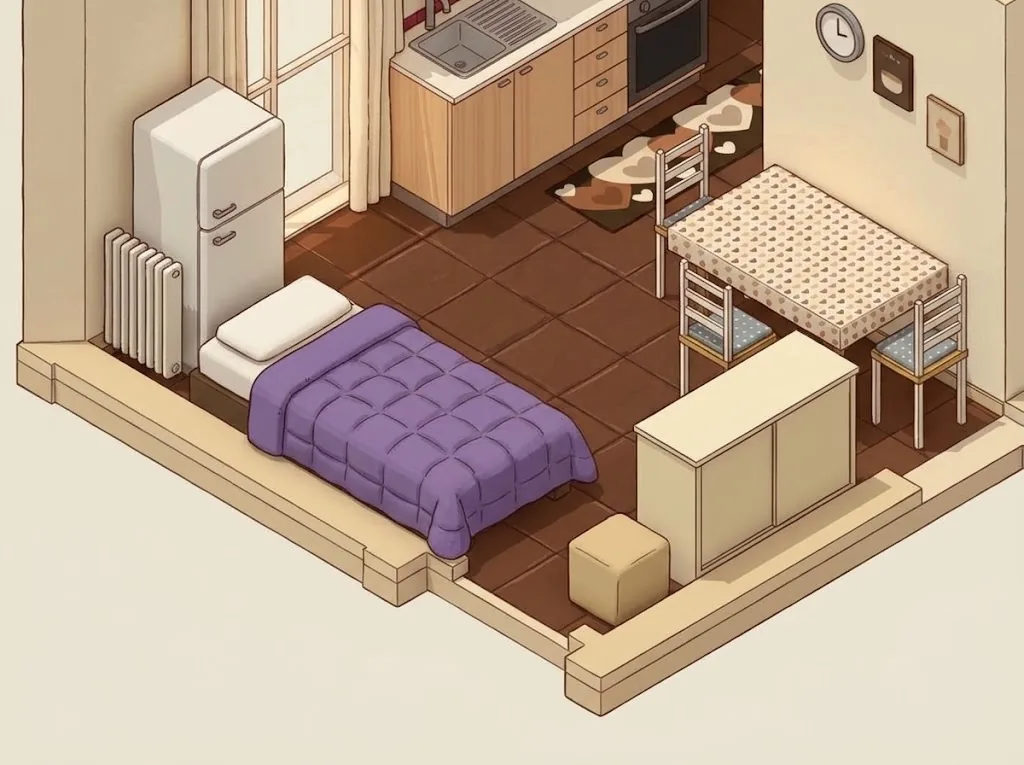
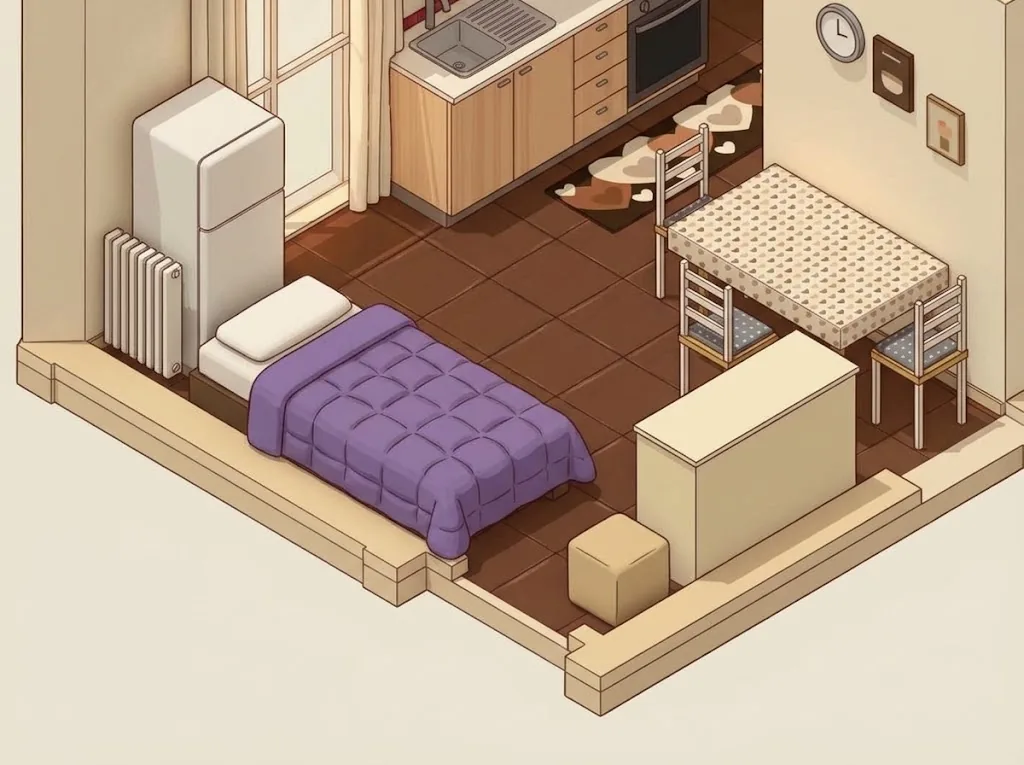
1.52.1: Salvatore dal balcone (decimo disegno) e la zona del tavolo rifatta (credenza vista da dietro)
Claude-Session: https://claude.ai/code/session_01H8bxSaX2AXN9M55pyspg7j

diff --git a/app.js b/app.js
@@ -17,7 +17,7 @@ import * as VOCE from "./voce.js";
 import * as GESTI from "./gesti.js";
 import * as BOCCA from "./bocca.js";
 
-export const VERSIONE = "1.52.0";
+export const VERSIONE = "1.52.1";
 
 // Icone (SVG semplici, tratto 2px). Si usano con ICONA("nome").
 const ICONE_SVG = {
@@ -3599,7 +3599,7 @@ for (const [k, v] of Object.entries(MAPPE_ZONE)) MAPPE[k] = v;
 //  I SEGNI DI MICHELE: tocca il disegno nel punto giusto e scrive due parole; valgono per quella pulizia (p.segniMano) o
 //  «ogni volta» in quella camera (impostazioni/segni). La signora li vede sul disegno (tondi blu col ✎) e li sente da Sofia.
 // ============================================================================
-const DISEGNI_STANZE = { salvatore: [{"id":"s1","file":"disegno-salvatore-1.webp","titolo":"Tutta la camera (dal bagno)","zona":false,"sagoma":[[371,190],[281,244],[149,271],[28,201],[29,110],[209,3],[371,99]],"posti":{"camera":[139.1,199.2,0.99],"soffitto":[145.4,55.9,0.84],"soffitto.angoli":[209.9,18.1,0.71],"pareti":[185.3,161.9,1.11],"pareti.macchie":[280.7,104.6,0.95],"pavimento":[139.1,186.4,1.0],"pavimento.angoli":[274.6,140.1,0.96],"battiscopa":[281.0,140.9,0.95],"zerbino":[170.1,152.9,1.08],"interruttori":[337.7,154.1,0.81],"tv":[150.3,60.8,0.85],"tv.retro":[150.3,56.3,0.84],"clima":[122.7,76.3,0.9],"clima.filtri":[122.7,73.2,0.89],"clima.griglia":[122.7,79.9,0.92],"frigo":[69.9,167.2,0.82],"frigo.guarnizione":[75.4,159.2,0.84],"frigo.retro":[67.1,149.7,0.82],"armadio":[235.9,90.6,0.95],"armadio.ante":[231.7,86.6,0.94],"armadio.dentro":[223.4,91.4,0.95],"armadio.sopra":[235.9,56.1,0.84],"cassetti":[181.3,217.1,0.93],"scrivania":[195.2,173.3,1.07],"tavolo":[195.2,173.3,1.07],"sedia":[177.5,191.7,1.01],"bollitore":[141.8,120.9,1.0],"letto":[289.8,175.1,0.93],"letto.testiera":[317.2,176.5,0.86],"letto.piedini":[241.4,185.4,1.03],"letto.sotto":[269.6,200.4,0.98],"letto.spostato":[265.8,166.0,0.99],"materasso":[296.2,180.3,0.91],"cuscini":[309.5,184.8,0.88],"coperta":[281.0,169.9,0.95],"comodino":[282.8,208.5,0.94],"abatjour":[342.3,163.0,0.79],"telecomandi":[282.8,204.7,0.94],"quadro":[212.4,136.1,1.1],"finestra":[177.8,69.8,0.88],"finestra.vetro":[177.8,66.6,0.87],"finestra.vetroEsterno":[177.8,63.4,0.86],"finestra.maniglia":[178.4,77.5,0.91],"finestra.davanzale":[177.8,87.4,0.94],"tapparella":[177.8,49.0,0.81],"zanzariera":[177.8,60.2,0.85],"tende":[166.2,80.7,0.92],"tende.bastone":[179.5,39.5,0.78],"termosifone":[179.2,105.7,1.0],"portafinestra":[86.5,136.9,0.87],"pensili":[135.5,91.7,0.96],"pensili.dentro":[135.5,93.3,0.96],"pensili.sopra":[135.5,81.5,0.92],"fornelli":[156.2,113.2,1.03],"forno":[161.2,128.9,1.05],"lavello":[126.3,130.2,0.97],"lavello.sotto":[130.8,148.1,0.98],"mestoli":[127.2,112.4,0.97],"piano":[139.1,123.1,1.0],"cucina":[139.1,132.1,1.0],"cucina.pavimento":[157.1,161.6,1.04],"cucina.frigo":[69.9,167.2,0.82],"sedie":[177.5,191.7,1.01],"bagno.soffitto":[22.9,246.1,0.71],"bagno.pareti":[66.3,230.6,0.82],"piastrelle":[58.0,261.0,0.78],"bagno.pavimento":[47.8,283.8,0.7]}},{"id":"cucina","file":"disegno-salvatore-cucina.webp","titolo":"La cucina","zona":true,"sagoma":[[399,12],[399,299],[14,299],[17,173],[311,0],[379,0]],"posti":{"soffitto":[227.5,76.0,1.81],"pareti":[301.0,271.5,1.49],"pareti.macchie":[222.4,173.2,2.15],"zerbino":[272.9,254.8,1.6],"tv":[236.5,85.0,1.87],"tv.retro":[236.5,76.7,1.81],"clima":[185.7,113.7,2.06],"clima.filtri":[185.7,107.8,2.02],"clima.griglia":[185.7,120.2,2.1],"frigo":[88.3,281.3,1.42],"frigo.guarnizione":[98.5,266.5,1.52],"frigo.retro":[83.2,248.9,1.64],"armadio.ante":[386.7,132.6,1.37],"armadio.dentro":[371.4,141.4,1.44],"cassetti":[223.5,218.0,1.85],"bollitore":[220.9,195.9,1.99],"quadro":[351.0,223.8,1.55],"finestra":[287.2,101.6,1.86],"finestra.vetro":[287.2,95.7,1.86],"finestra.vetroEsterno":[287.2,89.8,1.86],"finestra.maniglia":[288.2,115.8,1.86],"finestra.davanzale":[287.2,134.0,1.86],"tapparella":[287.2,63.3,1.72],"zanzariera":[287.2,84.0,1.86],"tende":[265.8,121.7,1.97],"tende.bastone":[290.3,45.7,1.6],"termosifone":[289.8,167.9,1.85],"portafinestra":[118.9,225.3,1.8],"pensili":[209.2,142.0,2.25],"pensili.dentro":[209.2,144.9,2.25],"pensili.sopra":[209.2,123.1,2.12],"fornelli":[247.4,181.7,2.06],"forno":[256.6,210.6,1.9],"lavello":[192.3,212.9,1.88],"lavello.sotto":[200.5,245.9,1.66],"mestoli":[193.9,180.3,2.1],"piano":[215.8,200.0,1.97],"cucina":[215.8,216.5,1.86],"cucina.pavimento":[249.0,271.0,1.49],"cucina.frigo":[88.3,281.3,1.42]}},{"id":"tavolo","file":"disegno-salvatore-tavolo.webp","titolo":"Il letto piccolo e il tavolo","zona":true,"sagoma":[[399,299],[0,299],[0,0],[396,0]],"posti":{"camera":[212.6,146.0,2.24],"soffitto":[309.6,52.2,1.65],"soffitto.angoli":[233.4,95.1,1.93],"pareti":[299.3,76.2,1.8],"pareti.macchie":[299.3,142.1,1.8],"pavimento":[212.6,122.1,2.11],"battiscopa":[340.3,187.4,1.6],"zerbino":[270.7,59.2,1.69],"frigo":[82.9,86.1,1.71],"frigo.guarnizione":[93.2,71.1,1.77],"frigo.retro":[77.7,53.1,1.65],"cassetti":[291.7,179.7,1.84],"scrivania":[317.9,97.5,1.71],"tavolo":[317.9,97.5,1.71],"sedia":[284.7,131.9,1.88],"quadro":[350.1,27.7,1.48],"tende":[84.4,27.1,1.48],"termosifone":[57.4,118.8,1.59],"portafinestra":[114.0,29.2,1.49],"lavello":[188.7,16.6,1.41],"lavello.sotto":[197.0,50.2,1.63],"cucina":[212.6,20.2,1.43],"cucina.pavimento":[246.3,75.6,1.8],"cucina.frigo":[82.9,86.1,1.71],"sedie":[284.7,131.9,1.88],"bagno.soffitto":[161.7,137.6,2.11],"bagno.pareti":[76.1,205.0,1.68],"piastrelle":[60.5,262.0,1.55]}},{"id":"armadio","file":"disegno-salvatore-armadio.webp","titolo":"L'armadio e il letto grande","zona":true,"sagoma":[[399,299],[0,299],[0,0],[399,0]],"posti":{"soffitto":[74.4,166.1,1.67],"soffitto.angoli":[352.8,85.7,1.54],"pareti":[65.0,187.8,1.62],"pareti.macchie":[227.2,90.4,1.9],"pavimento":[160.4,194.1,2.01],"pavimento.angoli":[216.9,150.6,2.22],"battiscopa":[227.7,152.0,2.16],"zerbino":[39.1,172.4,1.5],"interruttori":[324.1,174.5,1.68],"armadio":[151.0,66.5,1.74],"armadio.ante":[144.0,59.7,1.7],"armadio.dentro":[129.9,67.8,1.75],"cassetti":[58.1,281.6,1.42],"scrivania":[81.9,207.1,1.71],"tavolo":[81.9,207.1,1.71],"sedia":[51.8,238.3,1.56],"letto":[242.7,210.1,1.9],"letto.testiera":[289.3,212.5,1.85],"letto.piedini":[160.4,227.7,1.78],"letto.sotto":[208.4,253.3,1.61],"letto.spostato":[201.8,194.6,2.0],"materasso":[253.5,219.1,1.84],"cuscini":[276.1,226.7,1.79],"coperta":[227.7,201.4,1.96],"comodino":[230.7,267.0,1.52],"abatjour":[331.9,189.6,1.64],"telecomandi":[230.7,260.5,1.56],"quadro":[111.0,143.8,1.86],"finestra":[52.3,31.2,1.51],"finestra.vetro":[52.3,25.7,1.47],"finestra.vetroEsterno":[52.3,20.3,1.44],"finestra.maniglia":[53.2,44.2,1.57],"finestra.davanzale":[52.3,61.0,1.56],"tende":[32.5,49.6,1.46],"termosifone":[54.6,92.3,1.57],"fornelli":[15.6,105.0,1.38],"forno":[24.0,131.6,1.42],"cucina.pavimento":[17.0,187.3,1.38],"sedie":[51.8,238.3,1.56]}},{"id":"ingresso","file":"disegno-salvatore-ingresso.webp","titolo":"L'ingresso","zona":true,"sagoma":[[399,270],[366,299],[27,298],[0,282],[0,66],[151,0],[264,0],[313,14],[399,65]],"posti":{"soffitto":[230.1,255.5,1.6],"pareti":[140.3,59.7,1.7],"pareti.macchie":[367.2,178.5,1.46],"pavimento":[182.1,256.6,1.59],"porta":[55.9,196.3,1.58],"porta.anta":[63.7,173.8,1.62],"porta.maniglia":[74.3,189.3,1.67],"porta.numero":[55.9,153.1,1.58],"interruttori":[94.2,174.1,1.77],"frigo.guarnizione":[387.8,253.0,1.36],"cassetti":[149.4,201.7,1.96],"scrivania":[117.9,261.6,1.56],"tavolo":[117.9,261.6,1.56],"quadro":[353.5,135.3,1.53]}},{"id":"letto","file":"disegno-salvatore-letto.webp","titolo":"Il letto grande","zona":true,"sagoma":[[399,299],[71,299],[15,266],[16,74],[143,0],[399,0]],"posti":{"soffitto":[234.1,187.6,2.05],"soffitto.angoli":[52.8,81.4,1.56],"pareti":[227.6,259.4,1.57],"battiscopa":[273.4,198.2,1.93],"porta":[364.7,131.1,1.48],"porta.anta":[372.8,107.5,1.44],"porta.maniglia":[384.0,123.7,1.38],"porta.numero":[364.7,85.7,1.48],"armadio.sopra":[333.6,256.3,1.59],"letto":[206.0,228.8,1.77],"letto.testiera":[141.2,157.3,2.01],"letto.sotto":[253.7,229.1,1.77],"letto.spostato":[262.9,273.0,1.48],"materasso":[190.9,223.9,1.81],"cuscini":[159.5,198.2,1.98],"coperta":[226.9,240.9,1.69],"comodino":[222.6,164.7,2.19],"abatjour":[81.9,219.5,1.71],"telecomandi":[222.6,155.7,2.19],"quadro":[139.2,88.2,1.89]}},{"id":"balcone","file":"disegno-salvatore-balcone.webp","titolo":"Il balcone","zona":true,"sagoma":[[399,299],[0,299],[0,0],[399,0]],"posti":{"camera":[73.2,107.8,1.67],"soffitto":[61.8,66.8,1.61],"pareti":[66.8,138.4,1.63],"pareti.macchie":[66.8,155.6,1.63],"pavimento":[73.2,107.8,1.67],"frigo":[197.2,73.4,1.79],"frigo.guarnizione":[187.3,64.8,1.73],"frigo.retro":[202.1,36.2,1.54],"cassetti":[65.8,169.3,1.63],"sedia":[13.2,109.8,1.37],"bollitore":[68.3,145.0,1.64],"fornelli":[42.5,161.0,1.51],"forno":[33.6,182.2,1.47],"lavello":[96.0,130.7,1.78],"piano":[73.2,143.3,1.67],"cucina":[73.2,159.3,1.67],"cucina.frigo":[197.2,73.4,1.79],"sedie":[13.2,109.8,1.37],"balcone":[160.0,215.1,1.87],"ringhiera":[173.4,211.4,1.89],"muretto":[173.4,228.6,1.78],"piante":[120.3,249.5,1.64],"unita":[113.4,147.0,1.87],"balcone.mobili":[217.0,156.4,2.21],"balcone.muro":[54.4,231.4,1.57]}},{"id":"bagno1","file":"disegno-salvatore-bagno-1.webp","titolo":"Il bagno e l'antibagno","zona":false,"sagoma":[[305,283],[288,286],[48,196],[48,70],[102,10],[338,105],[338,229]],"posti":{"soffitto":[370.1,183.1,0.72],"soffitto.angoli":[297.7,155.3,0.91],"pareti":[360.3,192.5,0.75],"pareti.macchie":[360.3,240.4,0.75],"pavimento":[387.1,270.2,0.68],"bagno.soffitto":[70.9,72.0,0.83],"bagno.pareti":[148.3,113.8,1.02],"piastrelle":[133.5,143.2,0.98],"bagno.pavimento":[190.7,188.9,1.02],"bagno.porta":[253.0,176.8,1.02],"bagno.finestra":[87.1,95.4,0.87],"doccia":[181.0,167.0,1.09],"doccia.box":[191.0,142.8,1.13],"doccia.guide":[208.2,162.3,1.11],"doccia.piatto":[181.0,208.4,0.96],"doccia.piletta":[181.0,208.9,0.95],"silicone":[173.7,190.5,1.02],"scaldasalviette":[90.1,146.7,0.88],"asciugamani":[214.0,139.1,1.11],"wc":[113.1,171.7,0.93],"wc.tavoletta":[115.6,168.9,0.94],"wc.cassetta":[107.7,165.5,0.92],"wc.base":[117.6,179.7,0.94],"wc.dietro":[107.7,183.0,0.92],"portarotolo":[75.8,149.6,0.84],"bidet":[139.8,188.6,1.0],"lavabo":[213.0,197.2,0.99],"lavabo.piletta":[213.7,194.2,1.0],"lavabo.sotto":[212.3,215.4,0.93],"rubinetto":[208.9,196.1,1.0],"bidoncino":[111.3,147.8,0.93],"bagno.cestino":[111.3,147.8,0.93],"tappetino":[196.9,190.7,1.01]}},{"id":"bagno2","file":"disegno-salvatore-bagno-2.webp","titolo":"Il bagno visto dall'altra parte","zona":false,"sagoma":[[348,238],[286,289],[66,194],[66,60],[114,10],[348,105]],"posti":{"pareti":[53.5,16.9,0.71],"pareti.macchie":[53.5,67.7,0.78],"pavimento":[23.9,141.9,0.71],"battiscopa":[17.7,105.5,0.69],"bagno":[229.7,220.3,0.92],"bagno.soffitto":[325.4,113.0,0.84],"bagno.pareti":[252.7,97.5,0.97],"piastrelle":[266.6,140.0,0.98],"bagno.pavimento":[207.3,224.0,0.9],"bagno.porta":[149.9,146.6,1.02],"doccia":[219.8,158.9,1.1],"doccia.box":[208.5,154.5,1.13],"doccia.guide":[192.3,161.8,1.11],"doccia.piatto":[219.8,202.8,0.97],"doccia.piletta":[219.8,203.3,0.97],"silicone":[224.7,218.3,0.92],"scaldasalviette":[303.9,228.3,0.89],"wc":[284.3,207.4,0.94],"wc.tavoletta":[281.4,209.8,0.95],"wc.cassetta":[290.5,189.4,0.92],"wc.base":[279.1,225.5,0.9],"wc.dietro":[290.5,207.9,0.92],"bidet":[259.4,201.3,0.98],"lavabo":[190.8,151.8,1.13],"lavabo.piletta":[190.0,150.1,1.12],"lavabo.sotto":[191.6,169.6,1.08],"rubinetto":[195.5,141.9,1.12],"mensola":[195.8,130.1,1.08],"specchio.bagno":[197.6,111.5,1.02],"specchio.luce":[197.6,100.0,0.98],"phon":[180.1,112.4,1.02],"bidoncino":[281.2,251.7,0.81],"bagno.cestino":[281.2,251.7,0.81],"tappetino":[201.5,221.2,0.91]}}] };
+const DISEGNI_STANZE = { salvatore: [{"id":"s1","file":"disegno-salvatore-1.webp","titolo":"Tutta la camera (dal bagno)","zona":false,"sagoma":[[371,190],[281,244],[149,271],[28,201],[29,110],[209,3],[371,99]],"posti":{"camera":[139.1,199.2,0.99],"soffitto":[145.4,55.9,0.84],"soffitto.angoli":[209.9,18.1,0.71],"pareti":[185.3,161.9,1.11],"pareti.macchie":[280.7,104.6,0.95],"pavimento":[139.1,186.4,1.0],"pavimento.angoli":[274.6,140.1,0.96],"battiscopa":[281.0,140.9,0.95],"zerbino":[170.1,152.9,1.08],"interruttori":[337.7,154.1,0.81],"tv":[150.3,60.8,0.85],"tv.retro":[150.3,56.3,0.84],"clima":[122.7,76.3,0.9],"clima.filtri":[122.7,73.2,0.89],"clima.griglia":[122.7,79.9,0.92],"frigo":[69.9,167.2,0.82],"frigo.guarnizione":[75.4,159.2,0.84],"frigo.retro":[67.1,149.7,0.82],"armadio":[235.9,90.6,0.95],"armadio.ante":[231.7,86.6,0.94],"armadio.dentro":[223.4,91.4,0.95],"armadio.sopra":[235.9,56.1,0.84],"cassetti":[181.3,217.1,0.93],"scrivania":[195.2,173.3,1.07],"tavolo":[195.2,173.3,1.07],"sedia":[177.5,191.7,1.01],"bollitore":[141.8,120.9,1.0],"letto":[289.8,175.1,0.93],"letto.testiera":[317.2,176.5,0.86],"letto.piedini":[241.4,185.4,1.03],"letto.sotto":[269.6,200.4,0.98],"letto.spostato":[265.8,166.0,0.99],"materasso":[296.2,180.3,0.91],"cuscini":[309.5,184.8,0.88],"coperta":[281.0,169.9,0.95],"comodino":[282.8,208.5,0.94],"abatjour":[342.3,163.0,0.79],"telecomandi":[282.8,204.7,0.94],"quadro":[212.4,136.1,1.1],"finestra":[177.8,69.8,0.88],"finestra.vetro":[177.8,66.6,0.87],"finestra.vetroEsterno":[177.8,63.4,0.86],"finestra.maniglia":[178.4,77.5,0.91],"finestra.davanzale":[177.8,87.4,0.94],"tapparella":[177.8,49.0,0.81],"zanzariera":[177.8,60.2,0.85],"tende":[166.2,80.7,0.92],"tende.bastone":[179.5,39.5,0.78],"termosifone":[179.2,105.7,1.0],"portafinestra":[86.5,136.9,0.87],"pensili":[135.5,91.7,0.96],"pensili.dentro":[135.5,93.3,0.96],"pensili.sopra":[135.5,81.5,0.92],"fornelli":[156.2,113.2,1.03],"forno":[161.2,128.9,1.05],"lavello":[126.3,130.2,0.97],"lavello.sotto":[130.8,148.1,0.98],"mestoli":[127.2,112.4,0.97],"piano":[139.1,123.1,1.0],"cucina":[139.1,132.1,1.0],"cucina.pavimento":[157.1,161.6,1.04],"cucina.frigo":[69.9,167.2,0.82],"sedie":[177.5,191.7,1.01],"bagno.soffitto":[22.9,246.1,0.71],"bagno.pareti":[66.3,230.6,0.82],"piastrelle":[58.0,261.0,0.78],"bagno.pavimento":[47.8,283.8,0.7]}},{"id":"s2","file":"disegno-salvatore-2.webp","titolo":"Tutta la camera (dal balcone)","zona":false,"sagoma":[[379,185],[191,293],[25,190],[25,110],[104,64],[217,41],[327,90],[380,152]],"posti":{"camera":[190.6,191.7,1.01],"soffitto":[221.2,153.8,1.1],"soffitto.angoli":[165.1,185.6,1.03],"pareti":[223.6,188.5,1.02],"pareti.macchie":[103.5,189.2,0.91],"pavimento":[226.7,173.6,1.07],"battiscopa":[103.3,221.0,0.91],"porta":[153.9,130.9,1.03],"porta.anta":[156.9,122.2,1.04],"porta.maniglia":[161.0,128.2,1.05],"porta.numero":[153.9,114.2,1.03],"interruttori":[168.7,122.4,1.06],"frigo":[286.9,157.0,0.93],"frigo.guarnizione":[282.0,152.8,0.94],"frigo.retro":[289.3,138.9,0.93],"armadio":[142.5,207.0,0.96],"armadio.ante":[146.1,199.3,0.99],"armadio.dentro":[153.3,211.8,0.94],"armadio.sopra":[142.5,177.0,1.01],"armadio.sotto":[146.1,232.7,0.87],"cassetti":[190.0,133.0,1.09],"scrivania":[177.9,156.1,1.09],"tavolo":[177.9,156.1,1.09],"sedia":[197.6,174.6,1.07],"bollitore":[224.3,191.7,1.01],"letto":[95.6,166.8,0.89],"letto.testiera":[71.8,140.6,0.83],"letto.piedini":[101.1,203.4,0.9],"letto.sotto":[113.1,167.0,0.93],"letto.spostato":[116.5,183.1,0.94],"materasso":[90.0,165.0,0.88],"cuscini":[78.5,155.6,0.85],"coperta":[103.3,171.3,0.91],"comodino":[101.7,143.3,0.9],"abatjour":[50.0,163.4,0.77],"telecomandi":[101.7,139.9,0.9],"quadro":[71.0,115.1,0.83],"termosifone":[191.8,229.9,0.88],"fornelli":[211.8,199.5,0.99],"forno":[207.5,209.7,0.95],"lavello":[237.8,184.7,1.03],"piano":[226.7,190.9,1.01],"cucina":[226.7,198.6,0.99],"cucina.frigo":[286.9,157.0,0.93],"sedie":[197.6,174.6,1.07],"bagno.soffitto":[250.3,33.1,0.76],"bagno.pareti":[290.0,18.5,0.71],"piastrelle":[297.2,36.5,0.77],"balcone":[268.8,225.7,0.9],"ringhiera":[275.3,223.9,0.9],"muretto":[275.3,232.2,0.88],"piante":[249.6,242.4,0.84],"unita":[246.2,192.7,1.01],"balcone.mobili":[296.5,197.2,0.91],"balcone.muro":[217.6,233.6,0.87]}},{"id":"cucina","file":"disegno-salvatore-cucina.webp","titolo":"La cucina","zona":true,"sagoma":[[399,12],[399,299],[14,299],[17,173],[311,0],[379,0]],"posti":{"soffitto":[227.5,76.0,1.81],"pareti":[301.0,271.5,1.49],"pareti.macchie":[222.4,173.2,2.15],"zerbino":[272.9,254.8,1.6],"tv":[236.5,85.0,1.87],"tv.retro":[236.5,76.7,1.81],"clima":[185.7,113.7,2.06],"clima.filtri":[185.7,107.8,2.02],"clima.griglia":[185.7,120.2,2.1],"frigo":[88.3,281.3,1.42],"frigo.guarnizione":[98.5,266.5,1.52],"frigo.retro":[83.2,248.9,1.64],"armadio.ante":[386.7,132.6,1.37],"armadio.dentro":[371.4,141.4,1.44],"cassetti":[223.5,218.0,1.85],"bollitore":[220.9,195.9,1.99],"quadro":[351.0,223.8,1.55],"finestra":[287.2,101.6,1.86],"finestra.vetro":[287.2,95.7,1.86],"finestra.vetroEsterno":[287.2,89.8,1.86],"finestra.maniglia":[288.2,115.8,1.86],"finestra.davanzale":[287.2,134.0,1.86],"tapparella":[287.2,63.3,1.72],"zanzariera":[287.2,84.0,1.86],"tende":[265.8,121.7,1.97],"tende.bastone":[290.3,45.7,1.6],"termosifone":[289.8,167.9,1.85],"portafinestra":[118.9,225.3,1.8],"pensili":[209.2,142.0,2.25],"pensili.dentro":[209.2,144.9,2.25],"pensili.sopra":[209.2,123.1,2.12],"fornelli":[247.4,181.7,2.06],"forno":[256.6,210.6,1.9],"lavello":[192.3,212.9,1.88],"lavello.sotto":[200.5,245.9,1.66],"mestoli":[193.9,180.3,2.1],"piano":[215.8,200.0,1.97],"cucina":[215.8,216.5,1.86],"cucina.pavimento":[249.0,271.0,1.49],"cucina.frigo":[88.3,281.3,1.42]}},{"id":"tavolo","file":"disegno-salvatore-tavolo.webp","titolo":"Il letto piccolo e il tavolo","zona":true,"sagoma":[[399,299],[0,299],[0,0],[396,0]],"posti":{"camera":[212.6,146.0,2.24],"soffitto":[309.6,52.2,1.65],"soffitto.angoli":[233.4,95.1,1.93],"pareti":[299.3,76.2,1.8],"pareti.macchie":[299.3,142.1,1.8],"pavimento":[212.6,122.1,2.11],"battiscopa":[340.3,187.4,1.6],"zerbino":[270.7,59.2,1.69],"frigo":[82.9,86.1,1.71],"frigo.guarnizione":[93.2,71.1,1.77],"frigo.retro":[77.7,53.1,1.65],"cassetti":[291.7,179.7,1.84],"scrivania":[317.9,97.5,1.71],"tavolo":[317.9,97.5,1.71],"sedia":[284.7,131.9,1.88],"quadro":[350.1,27.7,1.48],"tende":[84.4,27.1,1.48],"termosifone":[57.4,118.8,1.59],"portafinestra":[114.0,29.2,1.49],"lavello":[188.7,16.6,1.41],"lavello.sotto":[197.0,50.2,1.63],"cucina":[212.6,20.2,1.43],"cucina.pavimento":[246.3,75.6,1.8],"cucina.frigo":[82.9,86.1,1.71],"sedie":[284.7,131.9,1.88],"bagno.soffitto":[161.7,137.6,2.11],"bagno.pareti":[76.1,205.0,1.68],"piastrelle":[60.5,262.0,1.55]}},{"id":"armadio","file":"disegno-salvatore-armadio.webp","titolo":"L'armadio e il letto grande","zona":true,"sagoma":[[399,299],[0,299],[0,0],[399,0]],"posti":{"soffitto":[74.4,166.1,1.67],"soffitto.angoli":[352.8,85.7,1.54],"pareti":[65.0,187.8,1.62],"pareti.macchie":[227.2,90.4,1.9],"pavimento":[160.4,194.1,2.01],"pavimento.angoli":[216.9,150.6,2.22],"battiscopa":[227.7,152.0,2.16],"zerbino":[39.1,172.4,1.5],"interruttori":[324.1,174.5,1.68],"armadio":[151.0,66.5,1.74],"armadio.ante":[144.0,59.7,1.7],"armadio.dentro":[129.9,67.8,1.75],"cassetti":[58.1,281.6,1.42],"scrivania":[81.9,207.1,1.71],"tavolo":[81.9,207.1,1.71],"sedia":[51.8,238.3,1.56],"letto":[242.7,210.1,1.9],"letto.testiera":[289.3,212.5,1.85],"letto.piedini":[160.4,227.7,1.78],"letto.sotto":[208.4,253.3,1.61],"letto.spostato":[201.8,194.6,2.0],"materasso":[253.5,219.1,1.84],"cuscini":[276.1,226.7,1.79],"coperta":[227.7,201.4,1.96],"comodino":[230.7,267.0,1.52],"abatjour":[331.9,189.6,1.64],"telecomandi":[230.7,260.5,1.56],"quadro":[111.0,143.8,1.86],"finestra":[52.3,31.2,1.51],"finestra.vetro":[52.3,25.7,1.47],"finestra.vetroEsterno":[52.3,20.3,1.44],"finestra.maniglia":[53.2,44.2,1.57],"finestra.davanzale":[52.3,61.0,1.56],"tende":[32.5,49.6,1.46],"termosifone":[54.6,92.3,1.57],"fornelli":[15.6,105.0,1.38],"forno":[24.0,131.6,1.42],"cucina.pavimento":[17.0,187.3,1.38],"sedie":[51.8,238.3,1.56]}},{"id":"ingresso","file":"disegno-salvatore-ingresso.webp","titolo":"L'ingresso","zona":true,"sagoma":[[399,270],[366,299],[27,298],[0,282],[0,66],[151,0],[264,0],[313,14],[399,65]],"posti":{"soffitto":[230.1,255.5,1.6],"pareti":[140.3,59.7,1.7],"pareti.macchie":[367.2,178.5,1.46],"pavimento":[182.1,256.6,1.59],"porta":[55.9,196.3,1.58],"porta.anta":[63.7,173.8,1.62],"porta.maniglia":[74.3,189.3,1.67],"porta.numero":[55.9,153.1,1.58],"interruttori":[94.2,174.1,1.77],"frigo.guarnizione":[387.8,253.0,1.36],"cassetti":[149.4,201.7,1.96],"scrivania":[117.9,261.6,1.56],"tavolo":[117.9,261.6,1.56],"quadro":[353.5,135.3,1.53]}},{"id":"letto","file":"disegno-salvatore-letto.webp","titolo":"Il letto grande","zona":true,"sagoma":[[399,299],[71,299],[15,266],[16,74],[143,0],[399,0]],"posti":{"soffitto":[234.1,187.6,2.05],"soffitto.angoli":[52.8,81.4,1.56],"pareti":[227.6,259.4,1.57],"battiscopa":[273.4,198.2,1.93],"porta":[364.7,131.1,1.48],"porta.anta":[372.8,107.5,1.44],"porta.maniglia":[384.0,123.7,1.38],"porta.numero":[364.7,85.7,1.48],"armadio.sopra":[333.6,256.3,1.59],"letto":[206.0,228.8,1.77],"letto.testiera":[141.2,157.3,2.01],"letto.sotto":[253.7,229.1,1.77],"letto.spostato":[262.9,273.0,1.48],"materasso":[190.9,223.9,1.81],"cuscini":[159.5,198.2,1.98],"coperta":[226.9,240.9,1.69],"comodino":[222.6,164.7,2.19],"abatjour":[81.9,219.5,1.71],"telecomandi":[222.6,155.7,2.19],"quadro":[139.2,88.2,1.89]}},{"id":"balcone","file":"disegno-salvatore-balcone.webp","titolo":"Il balcone","zona":true,"sagoma":[[399,299],[0,299],[0,0],[399,0]],"posti":{"camera":[73.2,107.8,1.67],"soffitto":[61.8,66.8,1.61],"pareti":[66.8,138.4,1.63],"pareti.macchie":[66.8,155.6,1.63],"pavimento":[73.2,107.8,1.67],"frigo":[197.2,73.4,1.79],"frigo.guarnizione":[187.3,64.8,1.73],"frigo.retro":[202.1,36.2,1.54],"cassetti":[65.8,169.3,1.63],"sedia":[13.2,109.8,1.37],"bollitore":[68.3,145.0,1.64],"fornelli":[42.5,161.0,1.51],"forno":[33.6,182.2,1.47],"lavello":[96.0,130.7,1.78],"piano":[73.2,143.3,1.67],"cucina":[73.2,159.3,1.67],"cucina.frigo":[197.2,73.4,1.79],"sedie":[13.2,109.8,1.37],"balcone":[160.0,215.1,1.87],"ringhiera":[173.4,211.4,1.89],"muretto":[173.4,228.6,1.78],"piante":[120.3,249.5,1.64],"unita":[113.4,147.0,1.87],"balcone.mobili":[217.0,156.4,2.21],"balcone.muro":[54.4,231.4,1.57]}},{"id":"bagno1","file":"disegno-salvatore-bagno-1.webp","titolo":"Il bagno e l'antibagno","zona":false,"sagoma":[[305,283],[288,286],[48,196],[48,70],[102,10],[338,105],[338,229]],"posti":{"soffitto":[370.1,183.1,0.72],"soffitto.angoli":[297.7,155.3,0.91],"pareti":[360.3,192.5,0.75],"pareti.macchie":[360.3,240.4,0.75],"pavimento":[387.1,270.2,0.68],"bagno.soffitto":[70.9,72.0,0.83],"bagno.pareti":[148.3,113.8,1.02],"piastrelle":[133.5,143.2,0.98],"bagno.pavimento":[190.7,188.9,1.02],"bagno.porta":[253.0,176.8,1.02],"bagno.finestra":[87.1,95.4,0.87],"doccia":[181.0,167.0,1.09],"doccia.box":[191.0,142.8,1.13],"doccia.guide":[208.2,162.3,1.11],"doccia.piatto":[181.0,208.4,0.96],"doccia.piletta":[181.0,208.9,0.95],"silicone":[173.7,190.5,1.02],"scaldasalviette":[90.1,146.7,0.88],"asciugamani":[214.0,139.1,1.11],"wc":[113.1,171.7,0.93],"wc.tavoletta":[115.6,168.9,0.94],"wc.cassetta":[107.7,165.5,0.92],"wc.base":[117.6,179.7,0.94],"wc.dietro":[107.7,183.0,0.92],"portarotolo":[75.8,149.6,0.84],"bidet":[139.8,188.6,1.0],"lavabo":[213.0,197.2,0.99],"lavabo.piletta":[213.7,194.2,1.0],"lavabo.sotto":[212.3,215.4,0.93],"rubinetto":[208.9,196.1,1.0],"bidoncino":[111.3,147.8,0.93],"bagno.cestino":[111.3,147.8,0.93],"tappetino":[196.9,190.7,1.01]}},{"id":"bagno2","file":"disegno-salvatore-bagno-2.webp","titolo":"Il bagno visto dall'altra parte","zona":false,"sagoma":[[348,238],[286,289],[66,194],[66,60],[114,10],[348,105]],"posti":{"pareti":[53.5,16.9,0.71],"pareti.macchie":[53.5,67.7,0.78],"pavimento":[23.9,141.9,0.71],"battiscopa":[17.7,105.5,0.69],"bagno":[229.7,220.3,0.92],"bagno.soffitto":[325.4,113.0,0.84],"bagno.pareti":[252.7,97.5,0.97],"piastrelle":[266.6,140.0,0.98],"bagno.pavimento":[207.3,224.0,0.9],"bagno.porta":[149.9,146.6,1.02],"doccia":[219.8,158.9,1.1],"doccia.box":[208.5,154.5,1.13],"doccia.guide":[192.3,161.8,1.11],"doccia.piatto":[219.8,202.8,0.97],"doccia.piletta":[219.8,203.3,0.97],"silicone":[224.7,218.3,0.92],"scaldasalviette":[303.9,228.3,0.89],"wc":[284.3,207.4,0.94],"wc.tavoletta":[281.4,209.8,0.95],"wc.cassetta":[290.5,189.4,0.92],"wc.base":[279.1,225.5,0.9],"wc.dietro":[290.5,207.9,0.92],"bidet":[259.4,201.3,0.98],"lavabo":[190.8,151.8,1.13],"lavabo.piletta":[190.0,150.1,1.12],"lavabo.sotto":[191.6,169.6,1.08],"rubinetto":[195.5,141.9,1.12],"mensola":[195.8,130.1,1.08],"specchio.bagno":[197.6,111.5,1.02],"specchio.luce":[197.6,100.0,0.98],"phon":[180.1,112.4,1.02],"bidoncino":[281.2,251.7,0.81],"bagno.cestino":[281.2,251.7,0.81],"tappetino":[201.5,221.2,0.91]}}] };
 function disegniVeri(c) { const l = c && c.id && !mappeRotte ? DISEGNI_STANZE[c.id] : null; return l && l.length ? l : null; }
 // il posto nel disegno: preciso («letto.piedini»), se no la cosa intera («letto»), come fa isoDisegno
 function postoInFoto(f, dove) { const d = String(dove || ""); if (f.posti[d]) return d; const parti = d.split("."); for (const k of [parti[parti.length - 1], parti[0], parti.slice(0, -1).join(".")]) if (k && f.posti[k]) return k; return ""; }

diff --git a/sw.js b/sw.js
@@ -3,7 +3,7 @@
 //  Quando si pubblica una versione nuova bisogna cambiare il numero qui sotto:
 //  così i telefoni si accorgono dell'aggiornamento.
 // ============================================================================
-const VERSIONE = "1.52.0";
+const VERSIONE = "1.52.1";
 const CACHE = "ricci-pulizie-" + VERSIONE;
 // 1.43.0: I FILMATI STANNO IN UNA CACHE A PARTE CHE RESTA DA UNA VERSIONE ALL'ALTRA (prima ogni aggiornamento li
 // riscaricava tutti: 16 MB a telefono a ogni versione). Si scaricano la prima volta che servono (la strada dei filmati)
@@ -13,7 +13,7 @@ const FILMATI = ["./cons-parla.mp4", "./cons-riposo.mp4", "./capo-parla.mp4", ".
 const FILE_BASE = [
   "./", "./index.html", "./style.css", "./app.js", "./db.js", "./logica.js", "./regole.js",
   "./excel.js", "./dettatura.js", "./governante.js", "./chat.js", "./parole.js", "./ia.js", "./lettura.js", "./voce.js", "./gesti.js", "./catalogo.js", "./firebase-config.js", "./firebase-bundle.js", "./manifest.json", "./sfondo-laguna.svg", "./sfondo-manutenzione.svg", "./sfondo-bolle.svg",
-  "./icon-192.png", "./icon-512.png", "./icon-maskable-512.png", "./apple-touch-icon.png", "./cons-film.json", "./cons-poster.webp", "./capo-poster.webp", "./capo-viso.webp", "./capo-poster-3d.webp", "./stanza-governante.webp", "./mappa-corridoio.webp", "./mappa-scale.webp", "./mappa-ingresso.webp", "./mappa-terrazzo.webp", "./mappa-lavanderia.webp", "./mappa-balcone.webp", "./disegno-salvatore-1.webp", "./disegno-salvatore-cucina.webp", "./disegno-salvatore-tavolo.webp", "./disegno-salvatore-armadio.webp", "./disegno-salvatore-ingresso.webp", "./disegno-salvatore-letto.webp", "./disegno-salvatore-balcone.webp", "./disegno-salvatore-bagno-1.webp", "./disegno-salvatore-bagno-2.webp", "./mappa-camera.webp", "./mappa-bagno.webp", "./mappa-cucina.webp", "./stanza-altro.webp", "./stanza-paghe.webp", "./lavoro-bagno.webp", "./lavoro-biancheria.webp", "./lavoro-camera.webp", "./lavoro-cucina.webp", "./lavoro-finale.webp", "./lavoro-letto.webp", "./lavoro-partenza.webp", "./lavoro-pavimenti.webp", "./stanza-manutenzione.webp", "./stanza-prospetto.webp", "./stanza-segreteria.webp", "./stanza-signore.webp", "./stanza-sofia.webp", "./segr-poster-3d.webp", "./segr-viso.webp", "./cons-poster-3d2.webp", "./cons-fondo-3d.webp", "./avorio-parete.webp", "./cornice-noce.webp", "./fonts/atkinson-hyperlegible-next-latin-400-normal.woff2", "./fonts/atkinson-hyperlegible-next-latin-600-normal.woff2", "./fonts/atkinson-hyperlegible-next-latin-800-normal.woff2",
+  "./icon-192.png", "./icon-512.png", "./icon-maskable-512.png", "./apple-touch-icon.png", "./cons-film.json", "./cons-poster.webp", "./capo-poster.webp", "./capo-viso.webp", "./capo-poster-3d.webp", "./stanza-governante.webp", "./mappa-corridoio.webp", "./mappa-scale.webp", "./mappa-ingresso.webp", "./mappa-terrazzo.webp", "./mappa-lavanderia.webp", "./mappa-balcone.webp", "./disegno-salvatore-1.webp", "./disegno-salvatore-2.webp", "./disegno-salvatore-cucina.webp", "./disegno-salvatore-tavolo.webp", "./disegno-salvatore-armadio.webp", "./disegno-salvatore-ingresso.webp", "./disegno-salvatore-letto.webp", "./disegno-salvatore-balcone.webp", "./disegno-salvatore-bagno-1.webp", "./disegno-salvatore-bagno-2.webp", "./mappa-camera.webp", "./mappa-bagno.webp", "./mappa-cucina.webp", "./stanza-altro.webp", "./stanza-paghe.webp", "./lavoro-bagno.webp", "./lavoro-biancheria.webp", "./lavoro-camera.webp", "./lavoro-cucina.webp", "./lavoro-finale.webp", "./lavoro-letto.webp", "./lavoro-partenza.webp", "./lavoro-pavimenti.webp", "./stanza-manutenzione.webp", "./stanza-prospetto.webp", "./stanza-segreteria.webp", "./stanza-signore.webp", "./stanza-sofia.webp", "./segr-poster-3d.webp", "./segr-viso.webp", "./cons-poster-3d2.webp", "./cons-fondo-3d.webp", "./avorio-parete.webp", "./cornice-noce.webp", "./fonts/atkinson-hyperlegible-next-latin-400-normal.woff2", "./fonts/atkinson-hyperlegible-next-latin-600-normal.woff2", "./fonts/atkinson-hyperlegible-next-latin-800-normal.woff2",
   "./bocca.js", "./viso.js", "./cons-base.webp", "./cons-indica.webp", "./cons-cuore.webp", "./cons-pollice.webp", "./cons-osx.webp", "./cons-odx.webp", "./cons-osu.webp", "./cons-scena.webp", "./cons-saluto.webp", "./cons-riposo.webp", "./cons-b1.webp", "./cons-b2.webp", "./cons-b3.webp", "./cons-occhi.webp", "./cons-felice.webp", "./cons-testa.webp", "./cons-testa-occhi.webp",
   "./marmo-blu.webp", "./marmo-avorio.webp", "./marmo-biglia.webp", "./fonts/dancing-script-latin-700-normal.woff2", "./fonts/cormorant-garamond-latin-600-normal.woff2", "./fonts/cormorant-garamond-latin-700-normal.woff2", "./fonts/cormorant-garamond-latin-600-italic.woff2", "./fonts/plus-jakarta-sans-latin-600-normal.woff2", "./fonts/plus-jakarta-sans-latin-700-normal.woff2",
   "./fonts/fredoka-latin-600-normal.woff2", "./fonts/fredoka-latin-700-normal.woff2",

diff --git a/specifiche-governante.md b/specifiche-governante.md
@@ -2532,3 +2532,9 @@ Michele, 4/11 sera (dopo i nove disegni di Salvatore): «Sì, va bene: poi metti
 - I SEGNI DI MICHELE (gratis, niente IA): nella scheda della camera del titolare (dalle Piantine o da Oggi) la sezione «✏ Il disegno di Salvatore»: i disegni in piccolo (col numero dei segni già messi), l'elenco dei segni con «Cambia», e chiuso «👀 Come lo vede la signora». Toccando un disegno si apre il foglio «Segna sul disegno» (`foglioSegna`): il disegno grande, le schede per passare da un disegno all'altro, i segni come tondi blu numerati (viola quelli di ogni volta); si tocca il punto, si scrivono due parole (o si tocca «Spolvera», «Prendi questo», «Guarda bene qui»…), si sceglie «Solo oggi» (o il giorno di quella pulizia) oppure «Ogni volta in Salvatore» e «Salva il segno»; toccando un numero lo si cambia o lo si toglie. Si salvano sulla pulizia (`p.segniMano`) o in impostazioni/segni (`S.segniFissi[camera]`, li leggono anche le signore). Le regole di Firestore non cambiano (pulizie e impostazioni le scrivono i proprietari).
 - LA SIGNORA: nella camera aperta, in alto, il disegno vero con le stelle e i segni di Michele (tondi blu col ✎, nella legenda «✎ segnato da Michele», «· ogni volta»); nel riquadro «📣 Michele ti dice» la frase «Sul disegno ti ho segnato: …», che Sofia legge. La piastrella della camera nelle Piantine del titolare dice «✏ N segni sul disegno».
 - Prove: prova1520 (la camera di Salvatore per la signora coi disegni veri e le stelle sul disegno giusto; la scheda del titolare con la galleria; il foglio per segnare: tocco, due parole, solo oggi / ogni volta, cambia, togli; i segni di ogni volta visti in un altro giorno; una camera senza disegni come prima; il file che manca torna alla mappa) più tutto quello di prima.
+
+## 152.1 La 1.52.1 (4 novembre, sera): SALVATORE DAL BALCONE · LA ZONA DEL TAVOLO RIFATTA
+
+- Il decimo disegno di Salvatore: «Tutta la camera (dal balcone)» (`disegno-salvatore-2.webp`, id `s2`): il modello 3D visto dall'altra parte, ripassato da Gemini 3.1 Pro col motore del condizionatore al suo posto (dietro il piano della cucina, appeso al muro; il primo tentativo lo aveva spostato vicino al frigorifero) e controllato sovrapposto: niente spostato. I posti delle parti calcolati dal modello come per gli altri (55 parti).
+- La zona «Il letto piccolo e il tavolo» rifatta: la credenza vista da dietro ha il retro liscio (prima Gemini ci aveva disegnato le ante).
+- Il PDF dei disegni per Michele (salvatore-zone.pdf) ha ora tutti e dieci i disegni.
